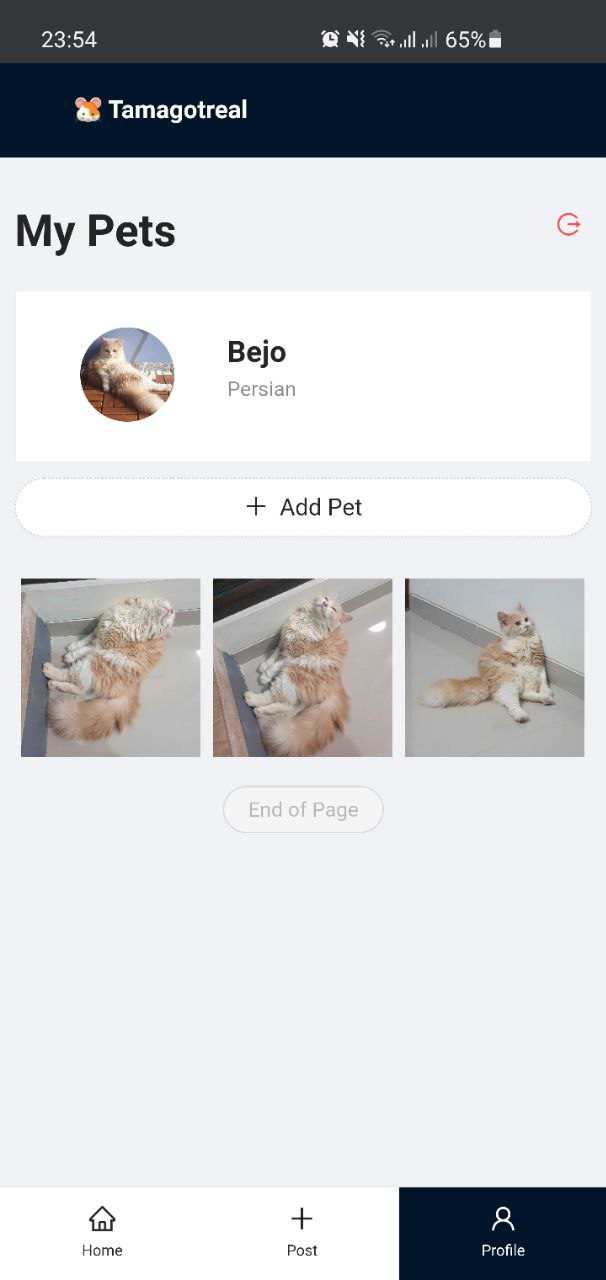
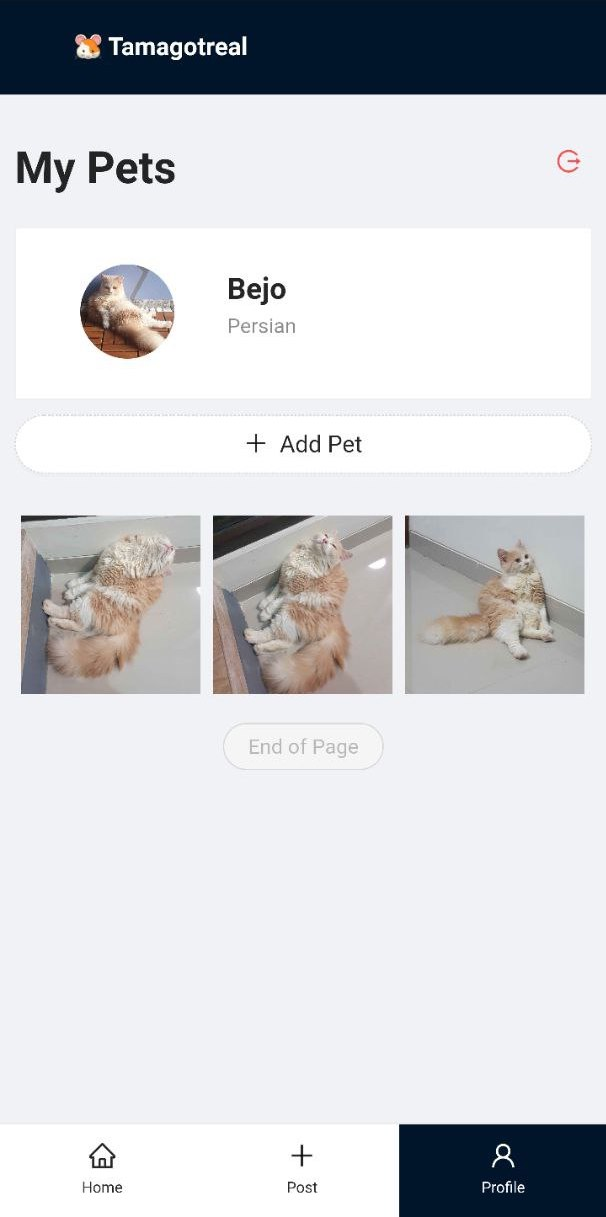
adjust screenshoots width

diff --git a/README.md b/README.md
@@ -12,10 +12,10 @@ Tamagotchi for your real pets. *For kids nowadays*: this is Instagram for your p
 Tamagotreal is live at [tamagotreal.vercel.app](https://tamagotreal.vercel.app)!
 
 <p>
-  <img style="width: 23%; margin-right: 10px;" src="./web/public/photo_2021-08-06&#32;23.56.11.jpeg" />
-  <img style="width: 23%; margin-right: 10px;" src="./web/public/photo_2021-08-06&#32;23.56.30.jpeg" />
-  <img style="width: 23%; margin-right: 10px;" src="./web/public/photo_2021-08-06&#32;23.56.37.jpeg" />
-  <img style="width: 23%; margin-right: 10px;" src="./web/public/photo_2021-08-06&#32;23.56.24.jpeg" />
+  <img width="200" src="./web/public/photo_2021-08-06&#32;23.56.11.jpeg" />
+  <img width="200" src="./web/public/photo_2021-08-06&#32;23.56.30.jpeg" />
+  <img width="200" src="./web/public/photo_2021-08-06&#32;23.56.37.jpeg" />
+  <img width="200" src="./web/public/photo_2021-08-06&#32;23.56.24.jpeg" />
 </p>
 
 This is the open source project of pet social media to expose your cute pet and will be the eyebleach for others. Tamagotreal uses [Supabase](https://supabase.io) to:
@@ -24,7 +24,7 @@ This is the open source project of pet social media to expose your cute pet and 
  - storing data of pets info, feeds, and comments
  - storage to upload the pet's photo
 
-## Upcoming Feature
+## Upcoming Features
 
 - [x] profile
 - [x] feeds
